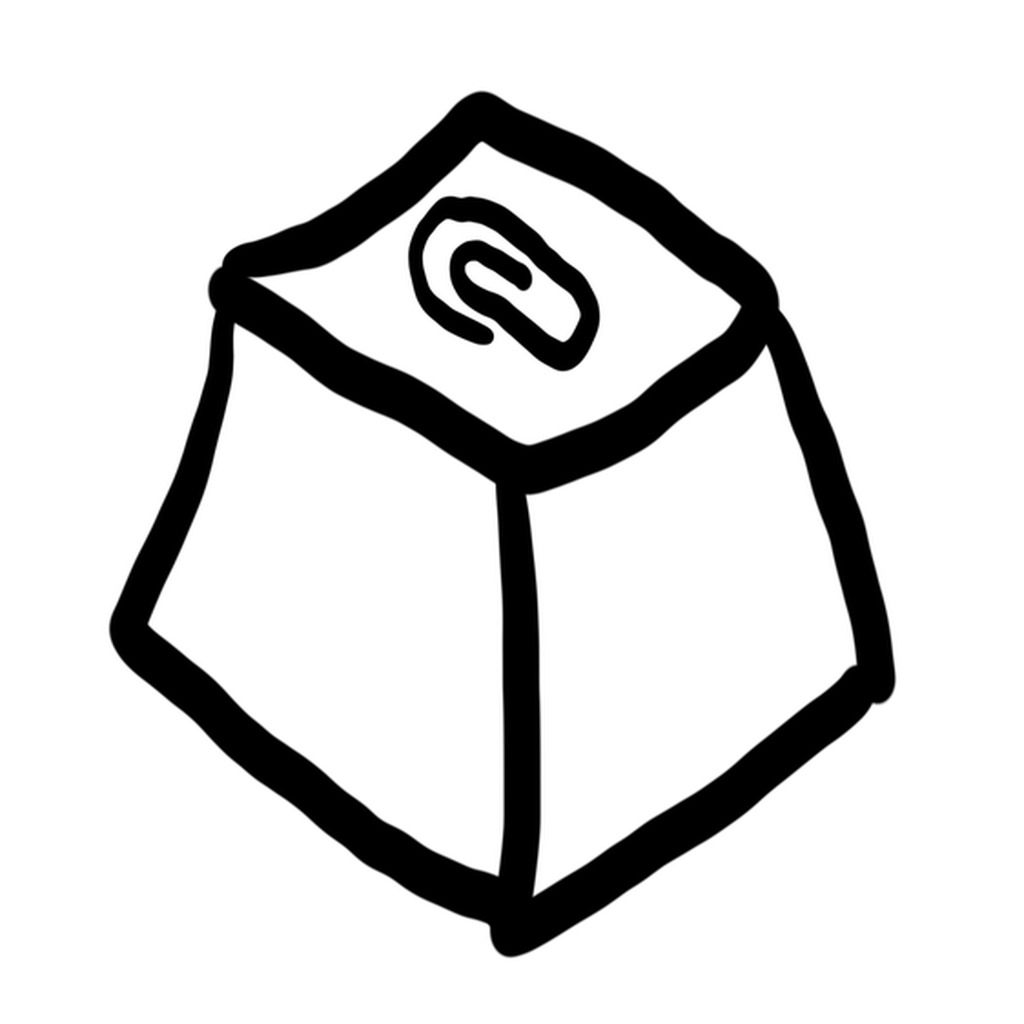
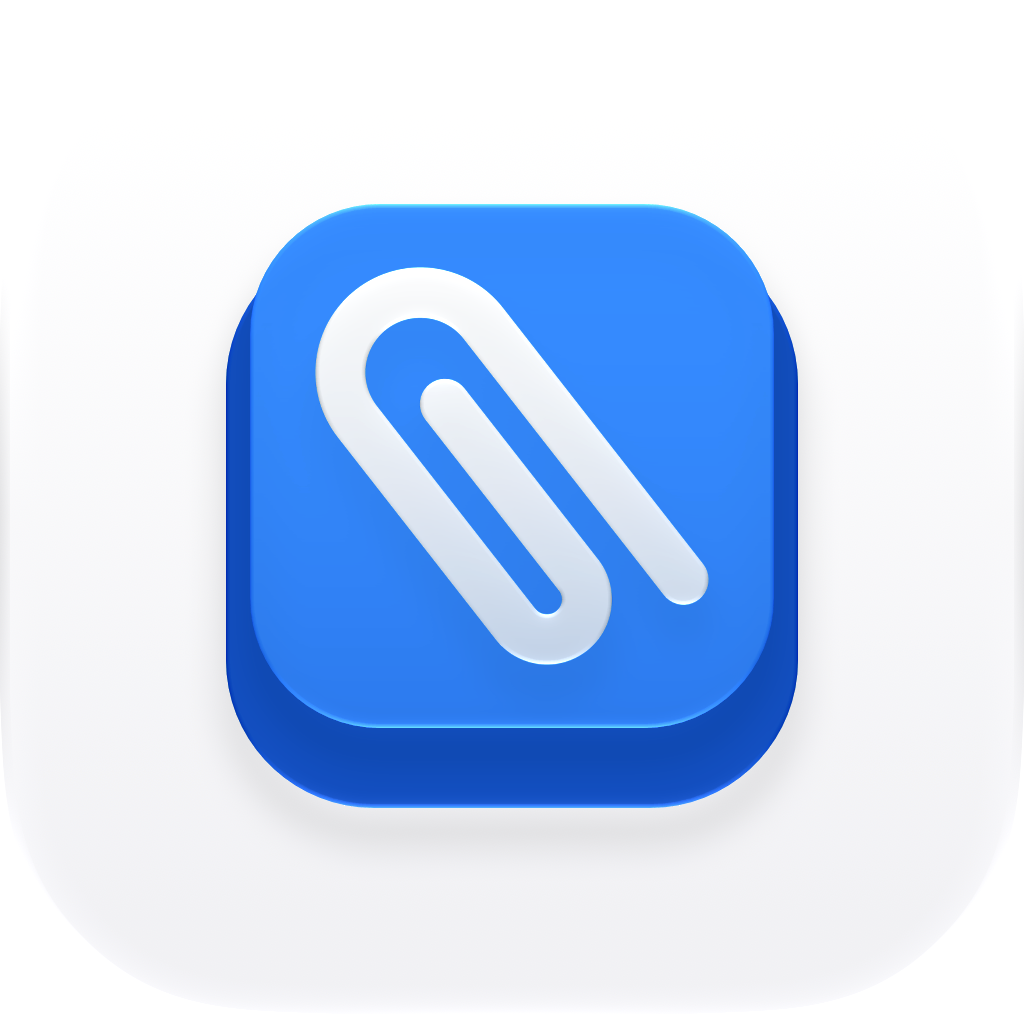
feat(아이콘): 앱 아이콘을 파란 키캡과 흰 클립으로. 웹 아이콘 세 장도 같은 그림으로 바꾸고 위젯의 빈 아이콘 세트를 지운다
사용자 의견(아이콘이 미적으로 아쉽다)에 따른 것. 무채색 클립과 회색 네모를
키 윗면 · 키 밑면 · 클립 세 레이어로 바꿨다. 밝은 모드와 어두운 모드 모두.

diff --git a/todo.md b/todo.md
@@ -5,6 +5,15 @@
 - [ ] 실기기: 켜고 쓰면 지우기 단축어를 눌러 줄이 안 지워지는지, 길게 눌러 한 줄 나가는지 확인
 - [ ] 의견 보낸 사용자에게 답장 보내기
 
+## 🎨 앱 아이콘을 파란 키캡으로 (사용자 의견 "能不能把图标优化一下，感觉不在审美点上", 2026-11-12)
+- [x] `AppIcon.icon` 을 무채색 클립 + 회색 네모에서 파란 키캡 + 흰 클립으로. 레이어 셋(클립 · 키 윗면 · 키 밑면), 밝은 · 어두운 모드
+- [x] Icon Composer `ictool` 로 기본 · 어두운 · 색조 · 투명 여섯 모습 렌더 확인, 빌드 확인 (BUILD SUCCEEDED)
+- [ ] 실기기 홈 화면에서 확인: 색조(Tinted) 어두운 모드에서 클립이 흐리지 않은지
+- [x] 예전 아이콘 걷어냄: 웹의 `docs/app-icon.png` · `icon.png` · `favicon.png` 를 새 아이콘 렌더로 교체, 위젯의 빈 `AppIcon.appiconset` 삭제
+- [ ] 정하기: 스토어 스크린샷 · 홍보 그림(`docs/screenshots/creative`)을 새 아이콘으로 다시 뽑을지
+- [ ] 의견 보낸 사용자에게 답장 보내기 (간체 중국어 초안 있음)
+- [ ] 다음에: 설정에서 아이콘 고르기(대체 아이콘)
+
 ## 리뷰 13개 → 50개 (2026-11-09, 월 100만원 계획의 첫 일)
 > 진단은 docs/marketing/MARKETING_PLAN_2026-07.md. 병목은 페이월이 아니라 리뷰 수와 유입.
 - [x] 1-1 결제한 다음 실행에 별점 한 번 묻기 (ReviewManager.trackPurchase, "나중에" 한 사람도 결제 뒤엔 다시, 별점 남긴 사람은 안 물음) · 시험 6개
